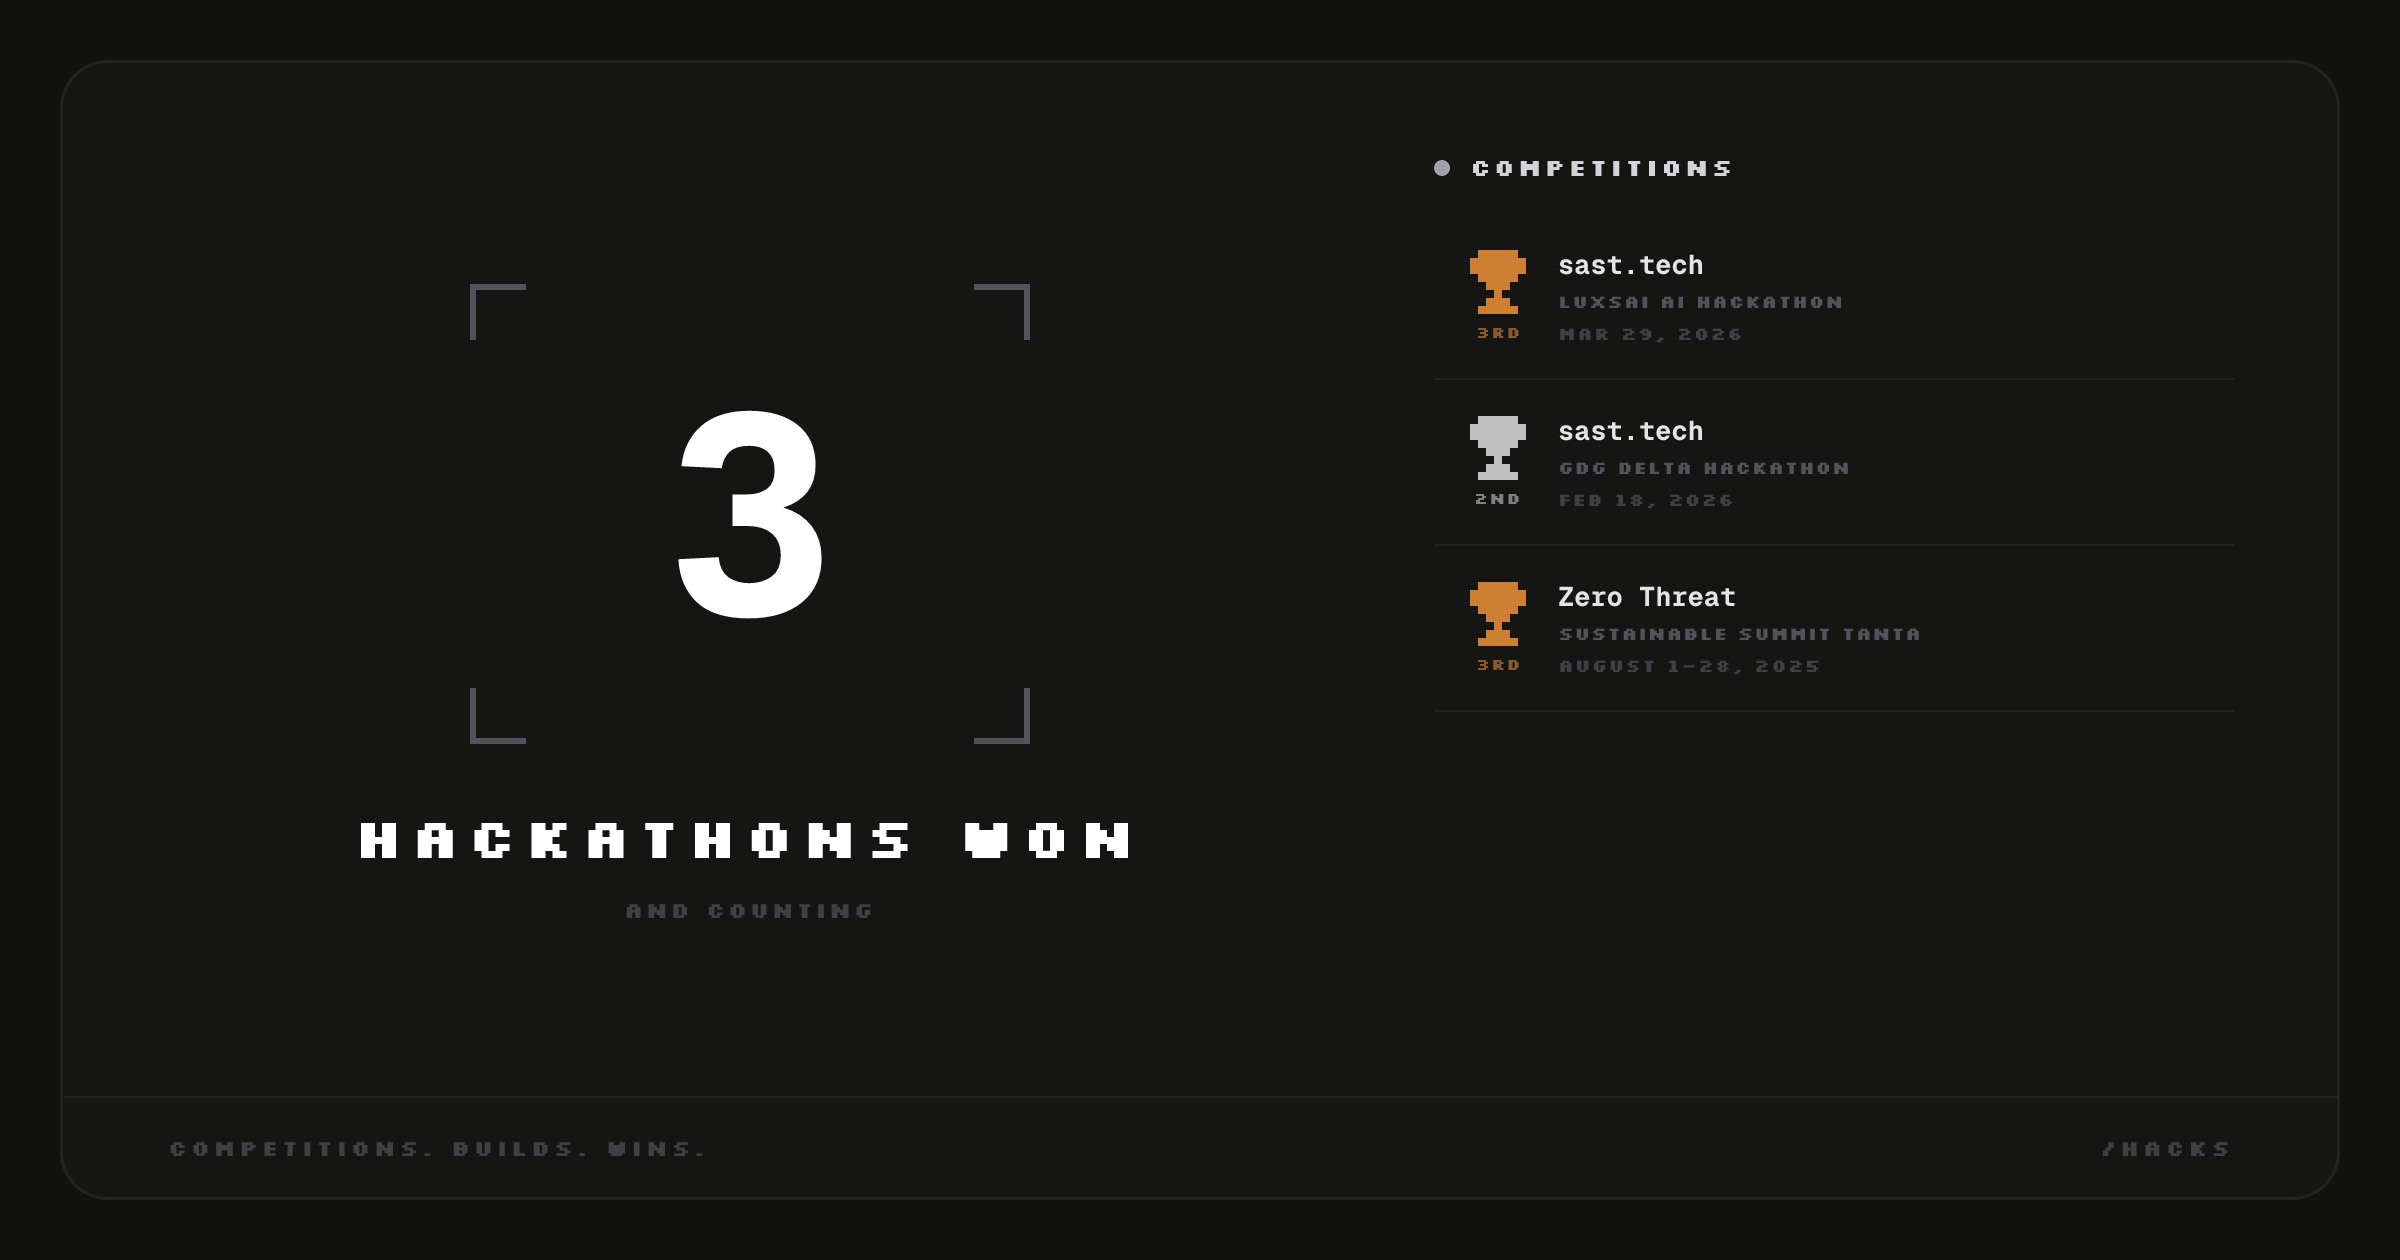
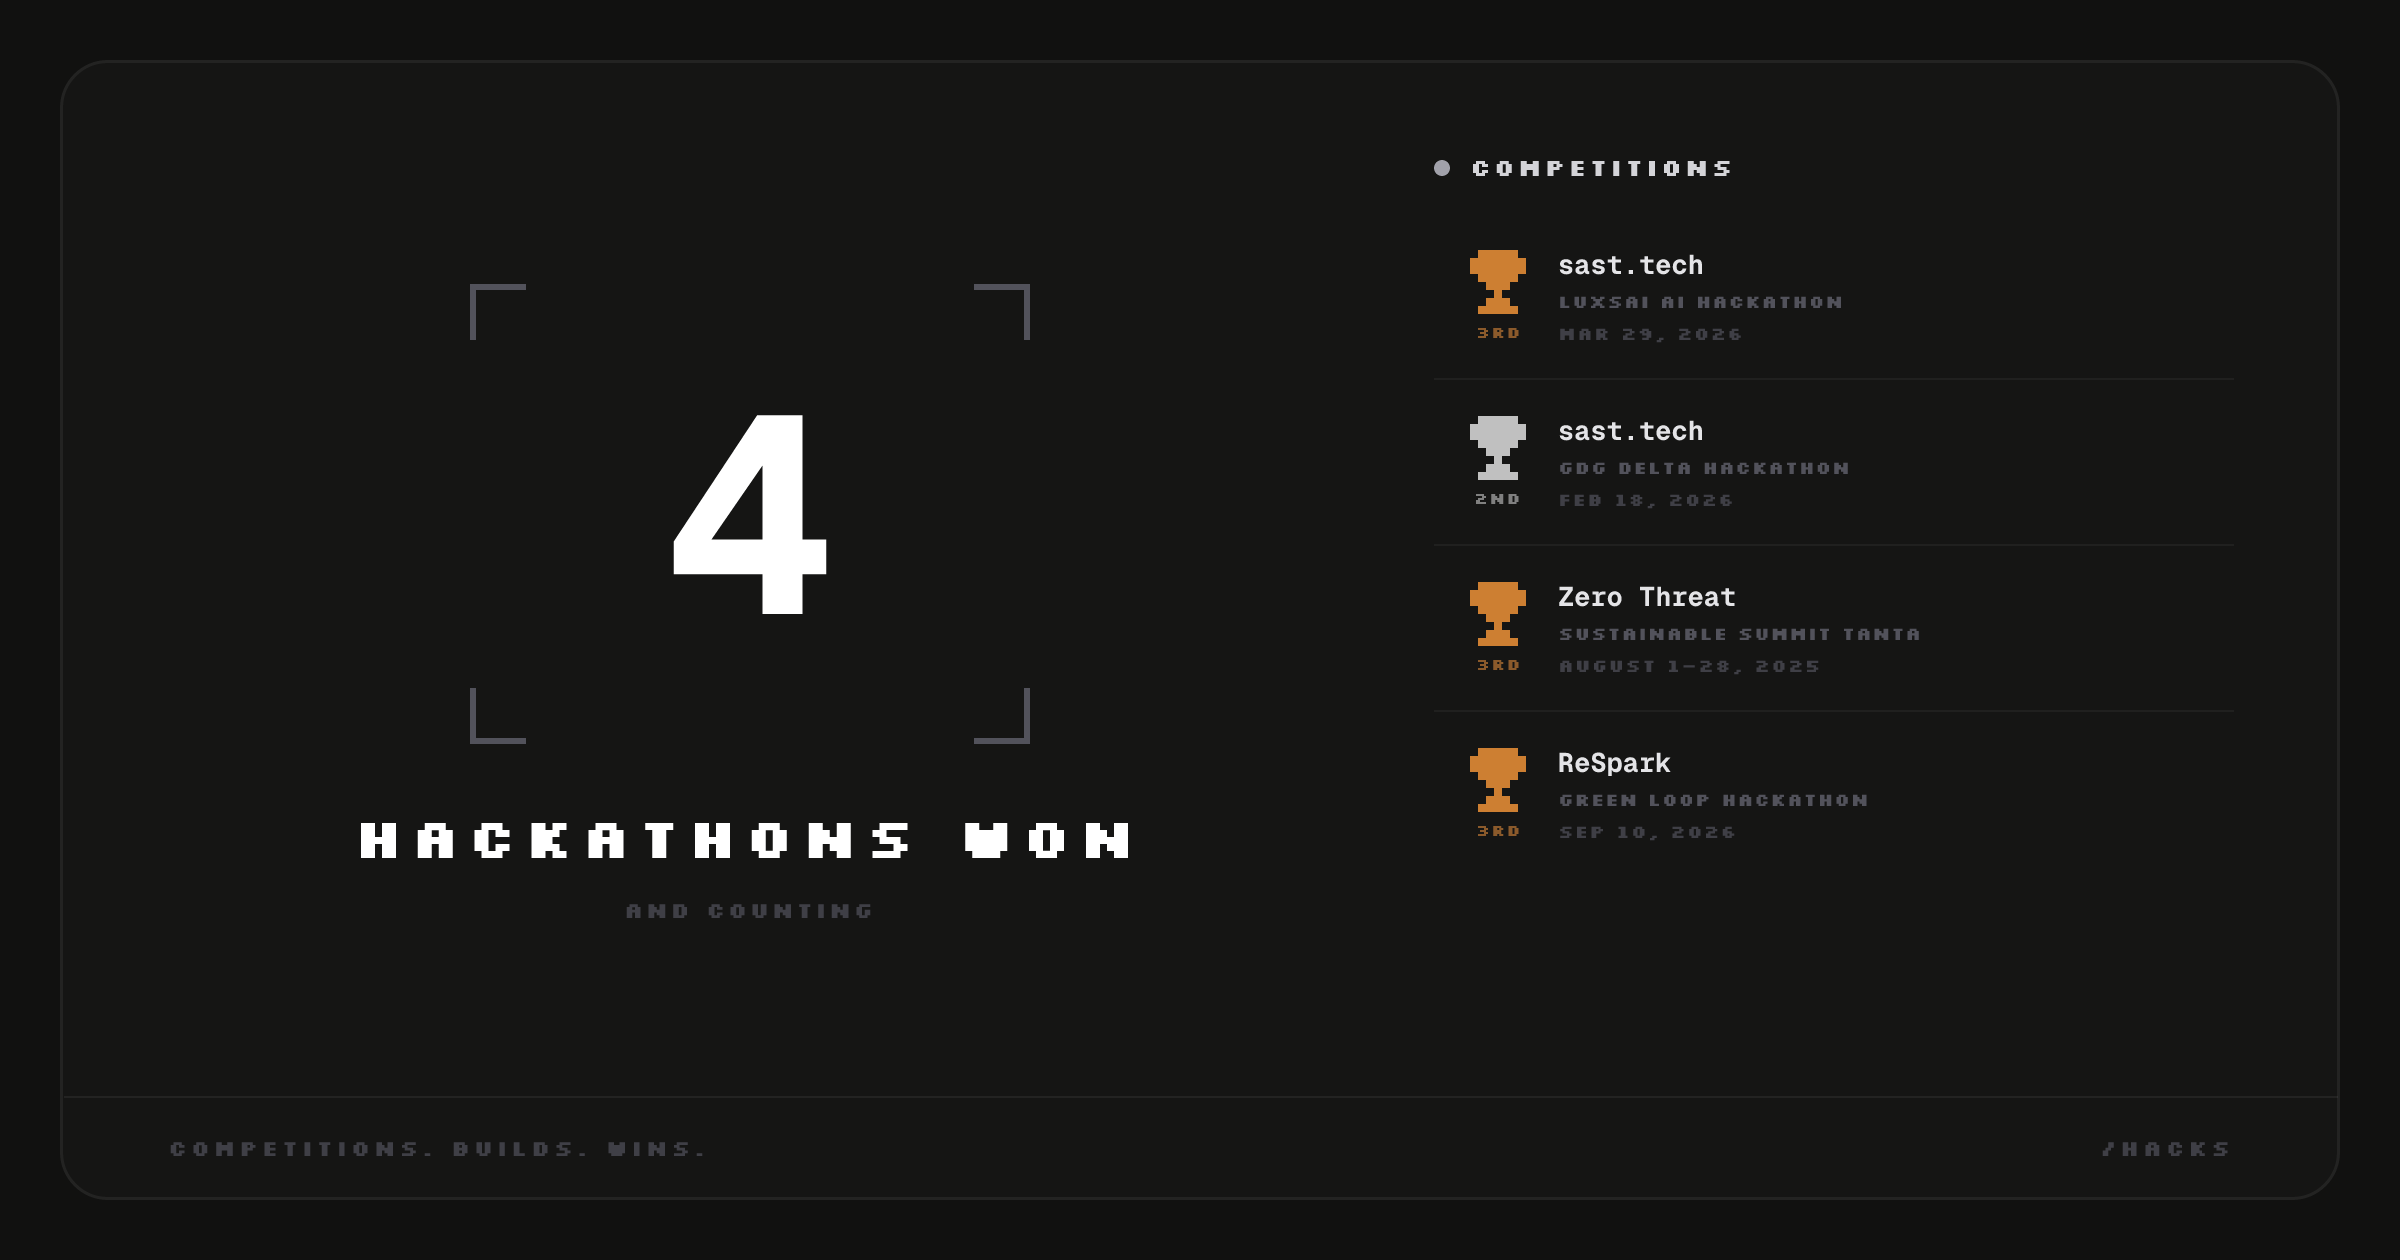
feat(hacks): add Green Loop 3rd place win for ReSpark

Changed region(s): [[0.2812, 0.3095, 0.3438, 0.4952], [0.5938, 0.5881, 0.7812, 0.681]]

diff --git a/src/routes/_main/hacks.tsx b/src/routes/_main/hacks.tsx
@@ -24,7 +24,7 @@ export const Route = createFileRoute("/_main/hacks")({
       title: TITLE,
       description: DESCRIPTION,
       path: "/hacks",
-      image: `${SITE_URL}/static/images/og-hacks.png?v=3`,
+      image: `${SITE_URL}/static/images/og-hacks.png?v=4`,
     });
     return {
       ...base,
@@ -125,6 +125,35 @@ const hacks = [
       {
         label: "Award Ceremony Video (2:13)",
         url: "https://www.facebook.com/reel/710000655405770",
+      },
+    ],
+  },
+
+  {
+    rank: "3RD PLACE",
+    color: "text-white hover:text-[#cd7f32] transition-colors duration-300",
+    event: "GREEN LOOP HACKATHON • SEP 10, 2026 • HORUS UNIVERSITY",
+    title: "ReSpark (Green AI & E-Waste Platform)",
+    desc: (
+      <>
+        Won <strong className="text-zinc-200">3rd place</strong> in the Green Loop waste-recycling
+        competition at Horus University in an intense sprint, qualifying for the national finals.
+        Built <strong className="text-zinc-200">ReSpark</strong> alongside{" "}
+        <strong className="text-zinc-200">Abdelrahman Mohsen</strong> and{" "}
+        <strong className="text-zinc-200">Mostafa Kamal</strong>—tackling physical college hardware
+        e-waste and AI data center energy consumption.
+      </>
+    ),
+    linkText: "Project: respark.tech",
+    linkUrl: "https://respark.tech",
+    proofs: [
+      {
+        label: "Official Announcement",
+        url: "https://www.facebook.com/share/p/1cKjehsJfs/",
+      },
+      {
+        label: "Read Blog Story",
+        url: "/blog/winning-3rd-place-green-loop-respark",
       },
     ],
   },
